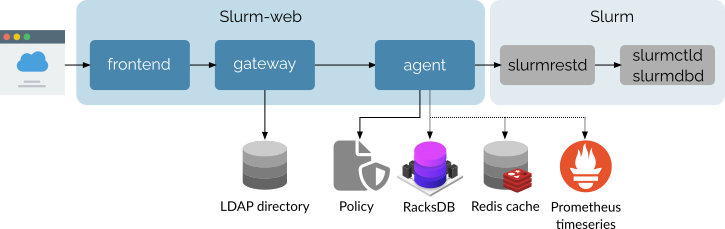
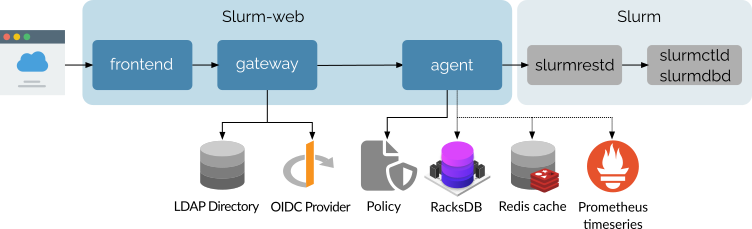
docs: mention OIDC auth in architecture docs

diff --git a/CHANGELOG.md b/CHANGELOG.md
@@ -38,6 +38,8 @@ and this project adheres to [Semantic Versioning](https://semver.org/spec/v2.0.0
   - Add support for _oidc_ value for `[auth]` > `method` gateway parameter.
   - Introduce new `[oidc]` section in gateway configuration.
   - Mention OIDC authentication feature in overview page.
+  - Mention OIDC authentication in integration section of architecture
+    documentation.
 
 ### Changed
 - gateway: Add user login in LDAP successful authentication JSON response, for